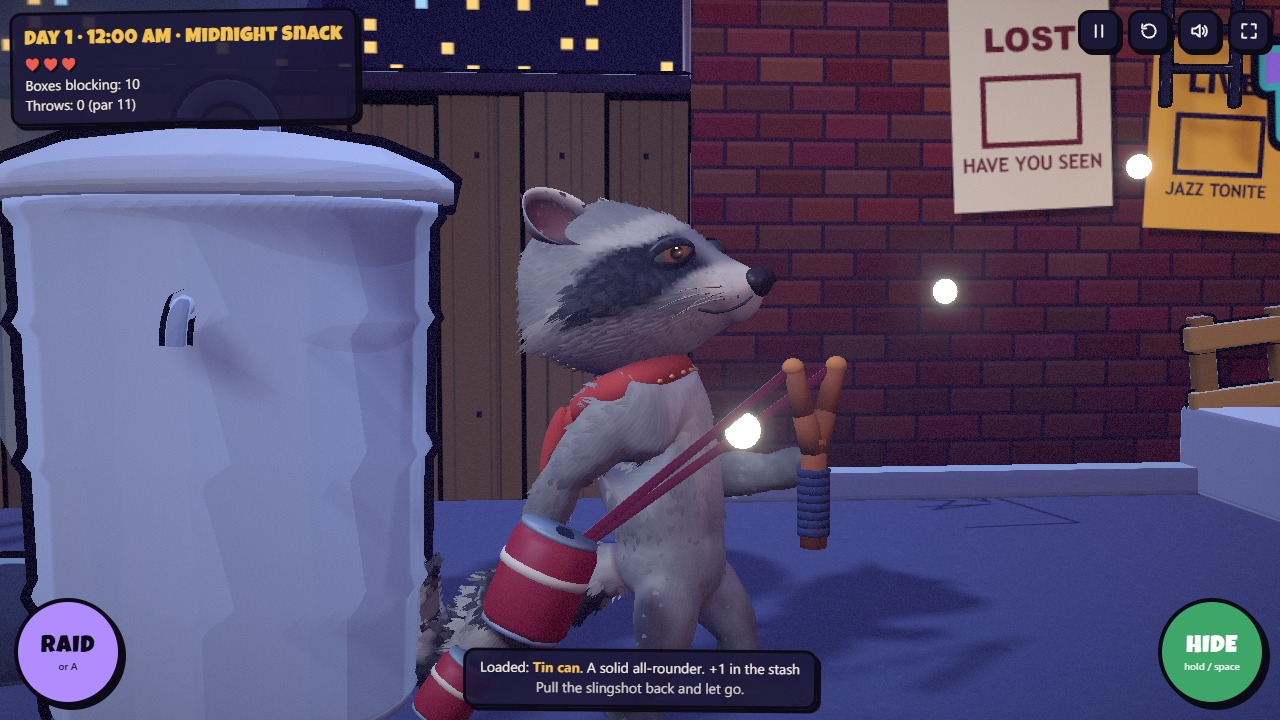
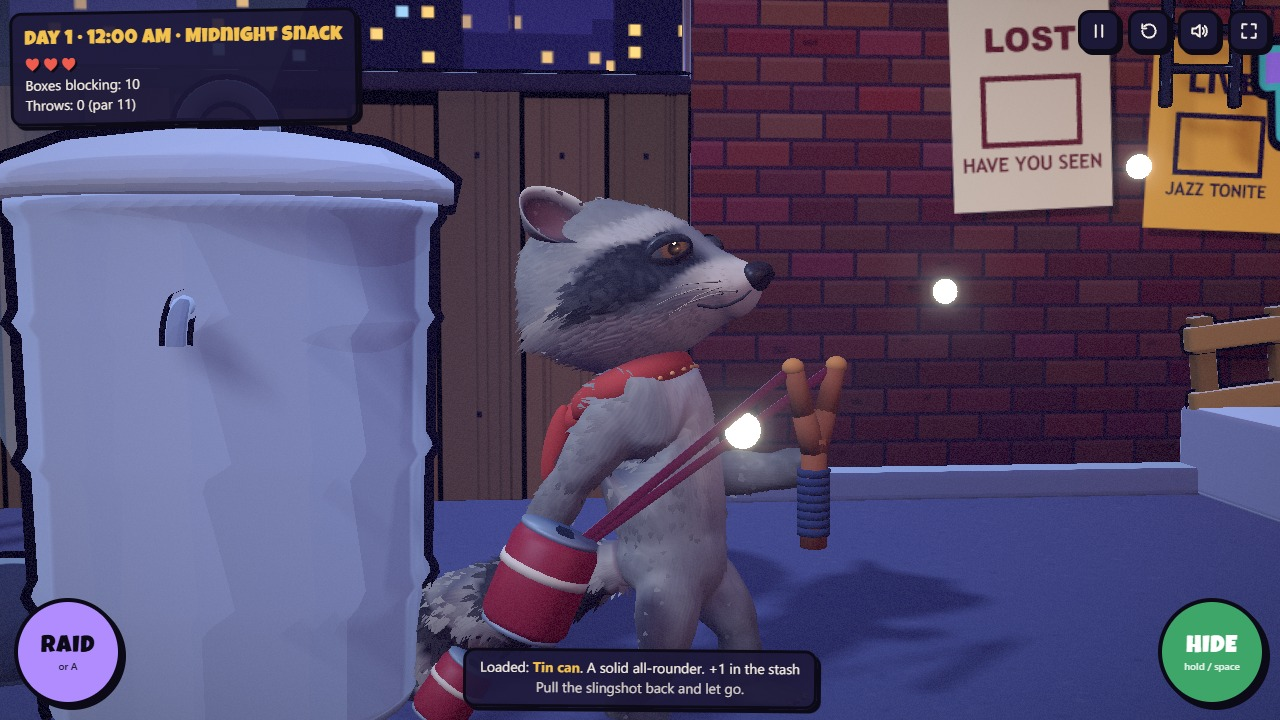
Keep the lower raccoon stance in alley idle

diff --git a/src/characters.js b/src/characters.js
@@ -19,6 +19,13 @@ function stick(a, b, r1, r2, color, t = 1.6) {
 const RC = { FUR: 0x8f99b2, FUR2: 0x6f7891, DARK: 0x2b2d3d, LIGHT: 0xf2ecdd, BAND: 0xe04b3c, NOSE: 0x15121b };
 
 export const R_STAND = {
+  '@hips': [0, -1, 0], hips: [0, 0, 0], spine: [0, 0, -4], chest: [0, 0, -5], neck: [0, 0, 3], head: [0, 0, 4],
+  earL: [-16, 0, 0], earR: [16, 0, 0],
+  uarmR: [0, 0, 25], farmR: [0, 0, 35], uarmL: [0, 0, 45], farmL: [0, 0, 35],
+  thighR: [0, 0, 8], shinR: [0, 0, -14], footR: [0, 0, 6], thighL: [0, 0, -6], shinL: [0, 0, -10], footL: [0, 0, 16],
+  tail0: [0, 0, 22], tail1: [0, 0, -8], tail2: [0, 0, -12], tail3: [0, 0, -12], tail4: [0, 0, -8],
+};
+const R_PROWL = {
   '@hips': [-2, -5, 0], hips: [0, 0, 0], spine: [0, 0, -10], chest: [0, 0, -8], neck: [0, 0, 6], head: [0, 0, 9],
   earL: [-16, 0, 0], earR: [16, 0, 0],
   uarmR: [0, 0, 25], farmR: [0, 0, 35], uarmL: [0, 0, 45], farmL: [0, 0, 35],
@@ -58,8 +65,13 @@ function raccoonClips(rig) {
   const S = R_STAND, W = P(S, R_WINDUP);
   rig.add(clip('idle', [
     [0, S],
-    [1.3, P(S, { '@hips': [-2, -6.2, 0], chest: [0, 0, -10], head: [0, 5, 11], earR: [16, 0, -14], tail0: [0, 0, 28], tail1: [0, 0, -2], tail2: [0, 0, -6], '^chest': [1, 1.03, 1.04] })],
+    [1.3, P(S, { '@hips': [0, -2.2, 0], chest: [0, 0, -7], neck: [0, 0, 1], head: [0, 5, 8], earR: [16, 0, -14], tail0: [0, 0, 28], tail1: [0, 0, -2], tail2: [0, 0, -6], '^chest': [1, 1.03, 1.04] })],
     [2.6, S],
+  ], rig));
+  rig.add(clip('prowlIdle', [
+    [0, R_PROWL],
+    [1.3, P(R_PROWL, { '@hips': [-2, -6.2, 0], chest: [0, 0, -10], head: [0, 5, 11], earR: [16, 0, -14], tail0: [0, 0, 28], tail1: [0, 0, -2], tail2: [0, 0, -6], '^chest': [1, 1.03, 1.04] })],
+    [2.6, R_PROWL],
   ], rig));
   rig.add(clip('release', [
     [0, W],

diff --git a/src/main.js b/src/main.js
@@ -1202,7 +1202,7 @@ function updateRaccoon(dt) {
     else if (ra.mode === 'fall') rig.play('fall', 0.08);
     else if (rumCan) { rig.play('rummage', 0.1); faceY = rumCan.x >= ra.x ? -0.5 : Math.PI + 0.5; z = 26; }
     else if (ra.moving) rig.play('run', 0.1, 1.15);
-    else rig.play('idle', 0.15);
+    else rig.play('prowlIdle', 0.15);
     rac.root.rotation.y = angleDamp(rac.root.rotation.y, faceY, 14, dt);
     g.position.set(ra.x, y, z);
     rig.update(dt);

diff --git a/docs/phase-a/character-direction.md b/docs/phase-a/character-direction.md
@@ -27,4 +27,4 @@ The **Raccoon · studio** scene in [midnight.blend](../../art/midnight.blend) op
 - See how the mask and coat read under the alley lighting at the same camera angle. [In-game before and after](raccoon-before-after.jpg)
 - Check silhouette and deformation at gameplay scale. [Climbing](13-ladder.jpg) · [Slingshot](02-windup.jpg) · [Phone landscape](40-phone-landscape.jpg)
 
-The idle pose lowers the hips, bends the hocks, and pitches the shoulders forward. Aiming lowers the brow and tenses the muzzle. Hits and falls can raise the brow. The head, whiskers, and browser face groom share the same expression field. The controls are symmetric, and the far eye can still catch a small highlight in close shots. [In-game aiming pose](raccoon-aim.jpg)
+During alley roaming, the idle pose lowers the hips, bends the hocks, and pitches the shoulders forward. Aiming lowers the brow and tenses the muzzle. Hits and falls can raise the brow. The head, whiskers, and browser face groom share the same expression field. The controls are symmetric, and the far eye can still catch a small highlight in close shots. [In-game aiming pose](raccoon-aim.jpg)
